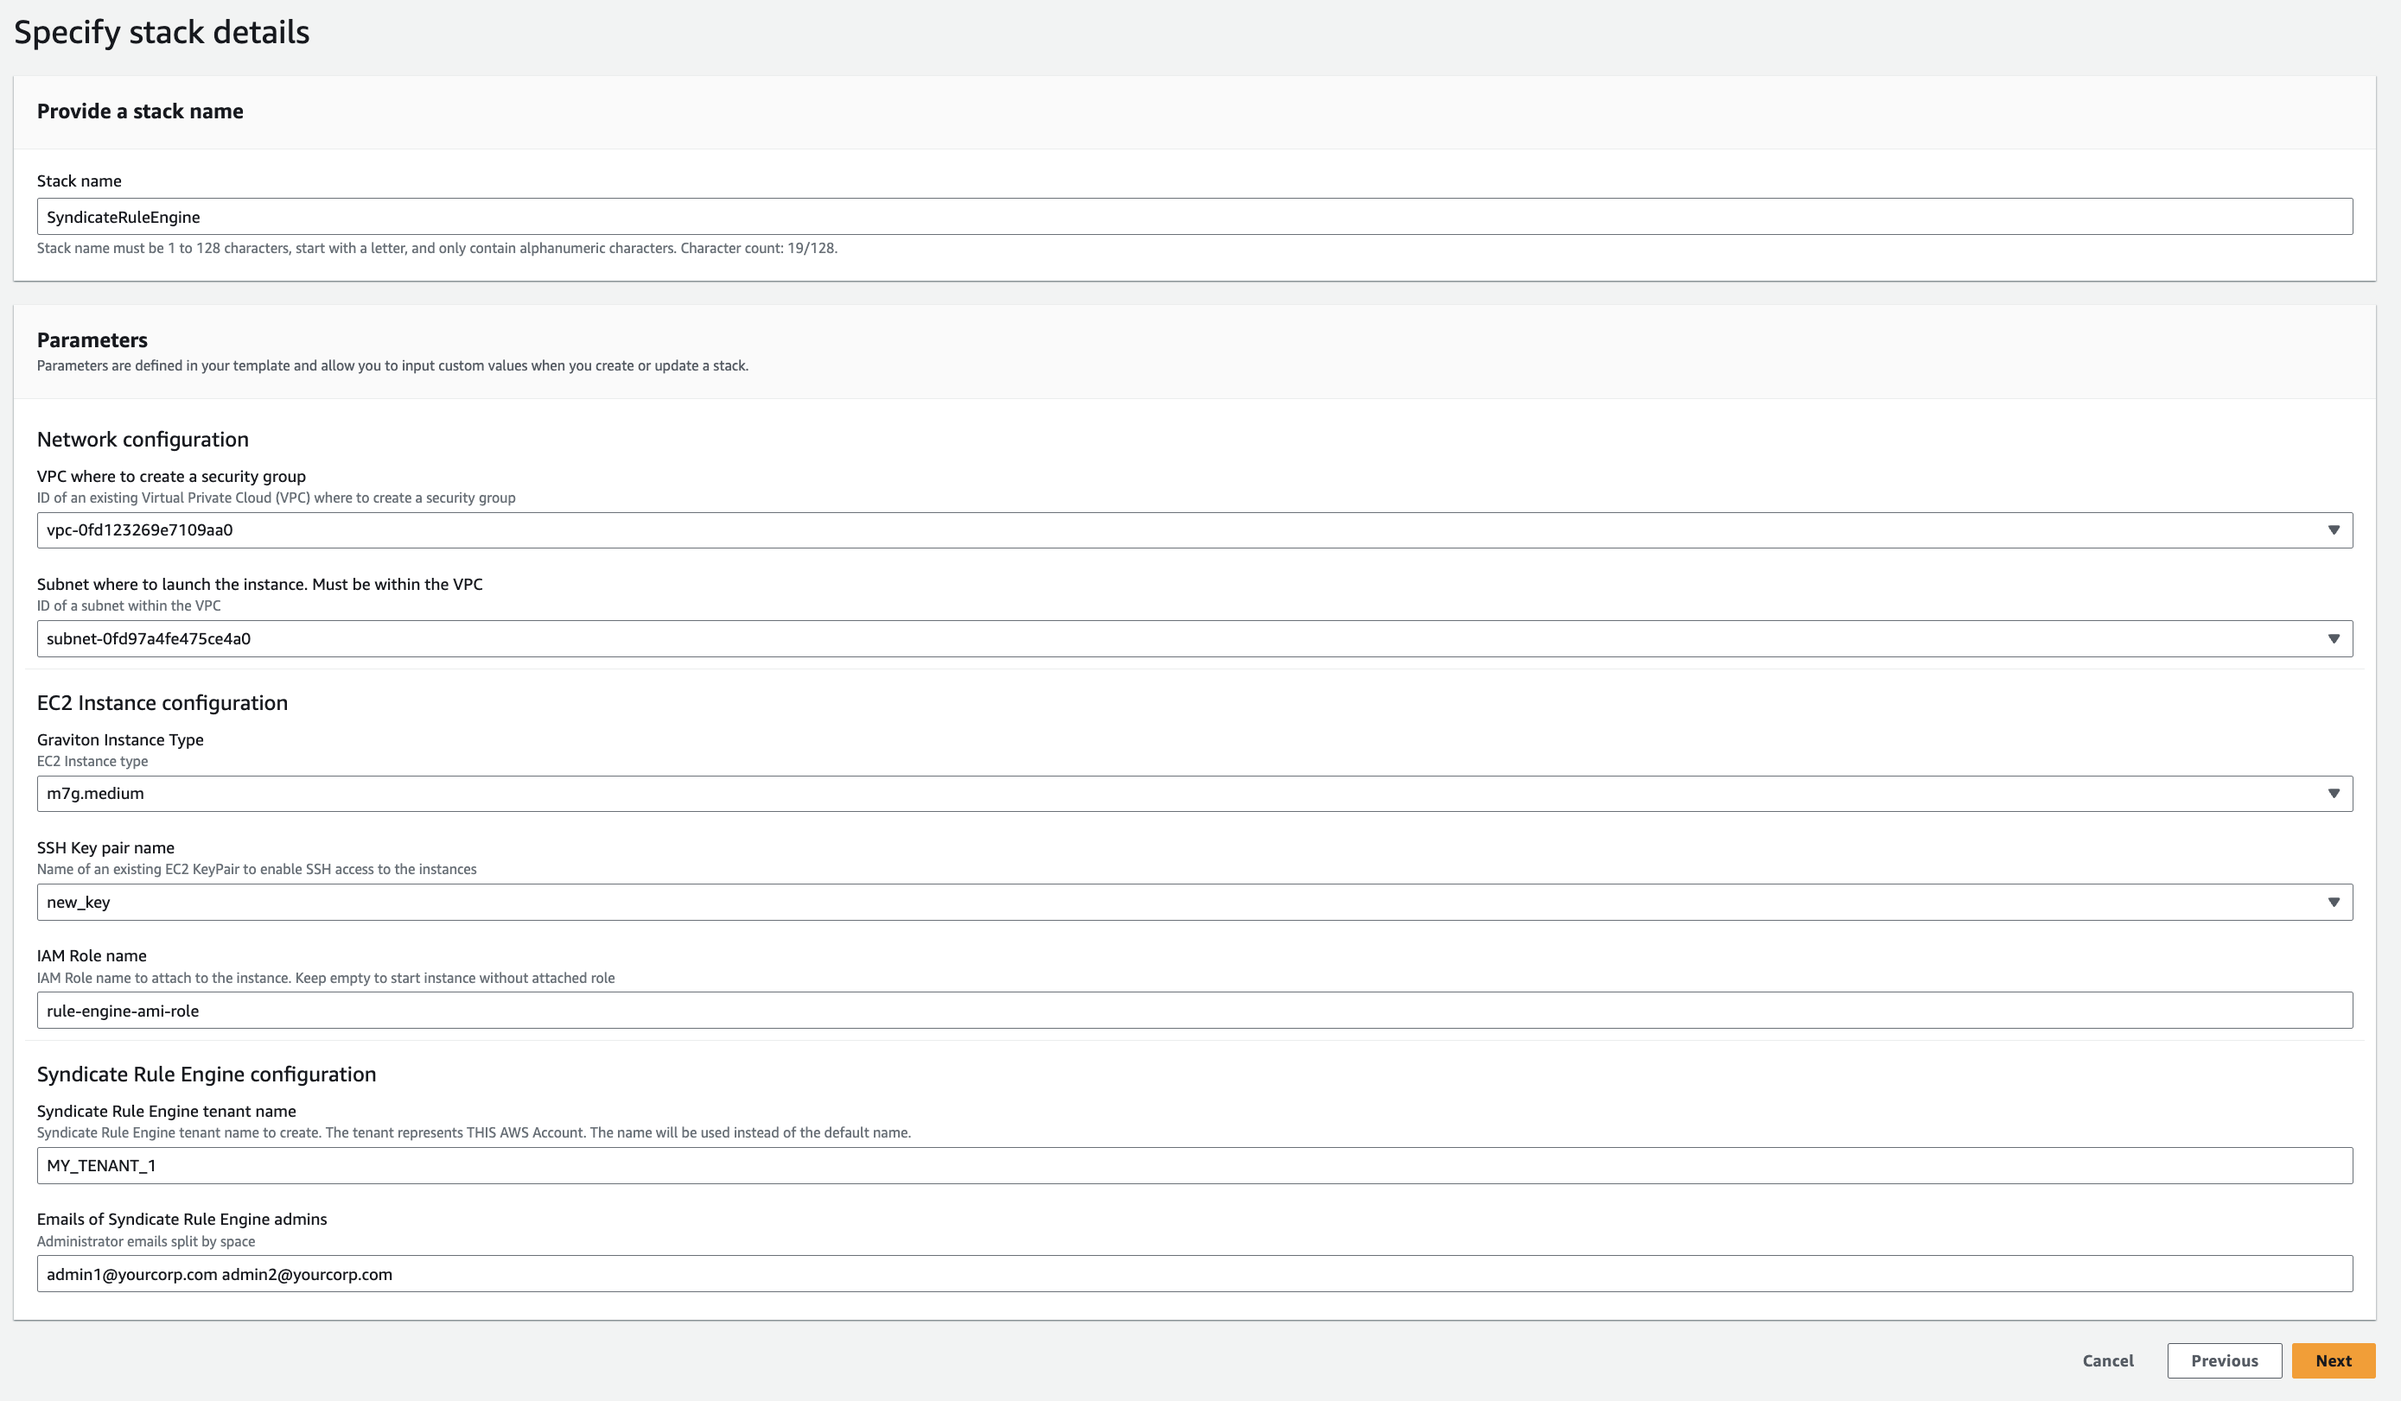
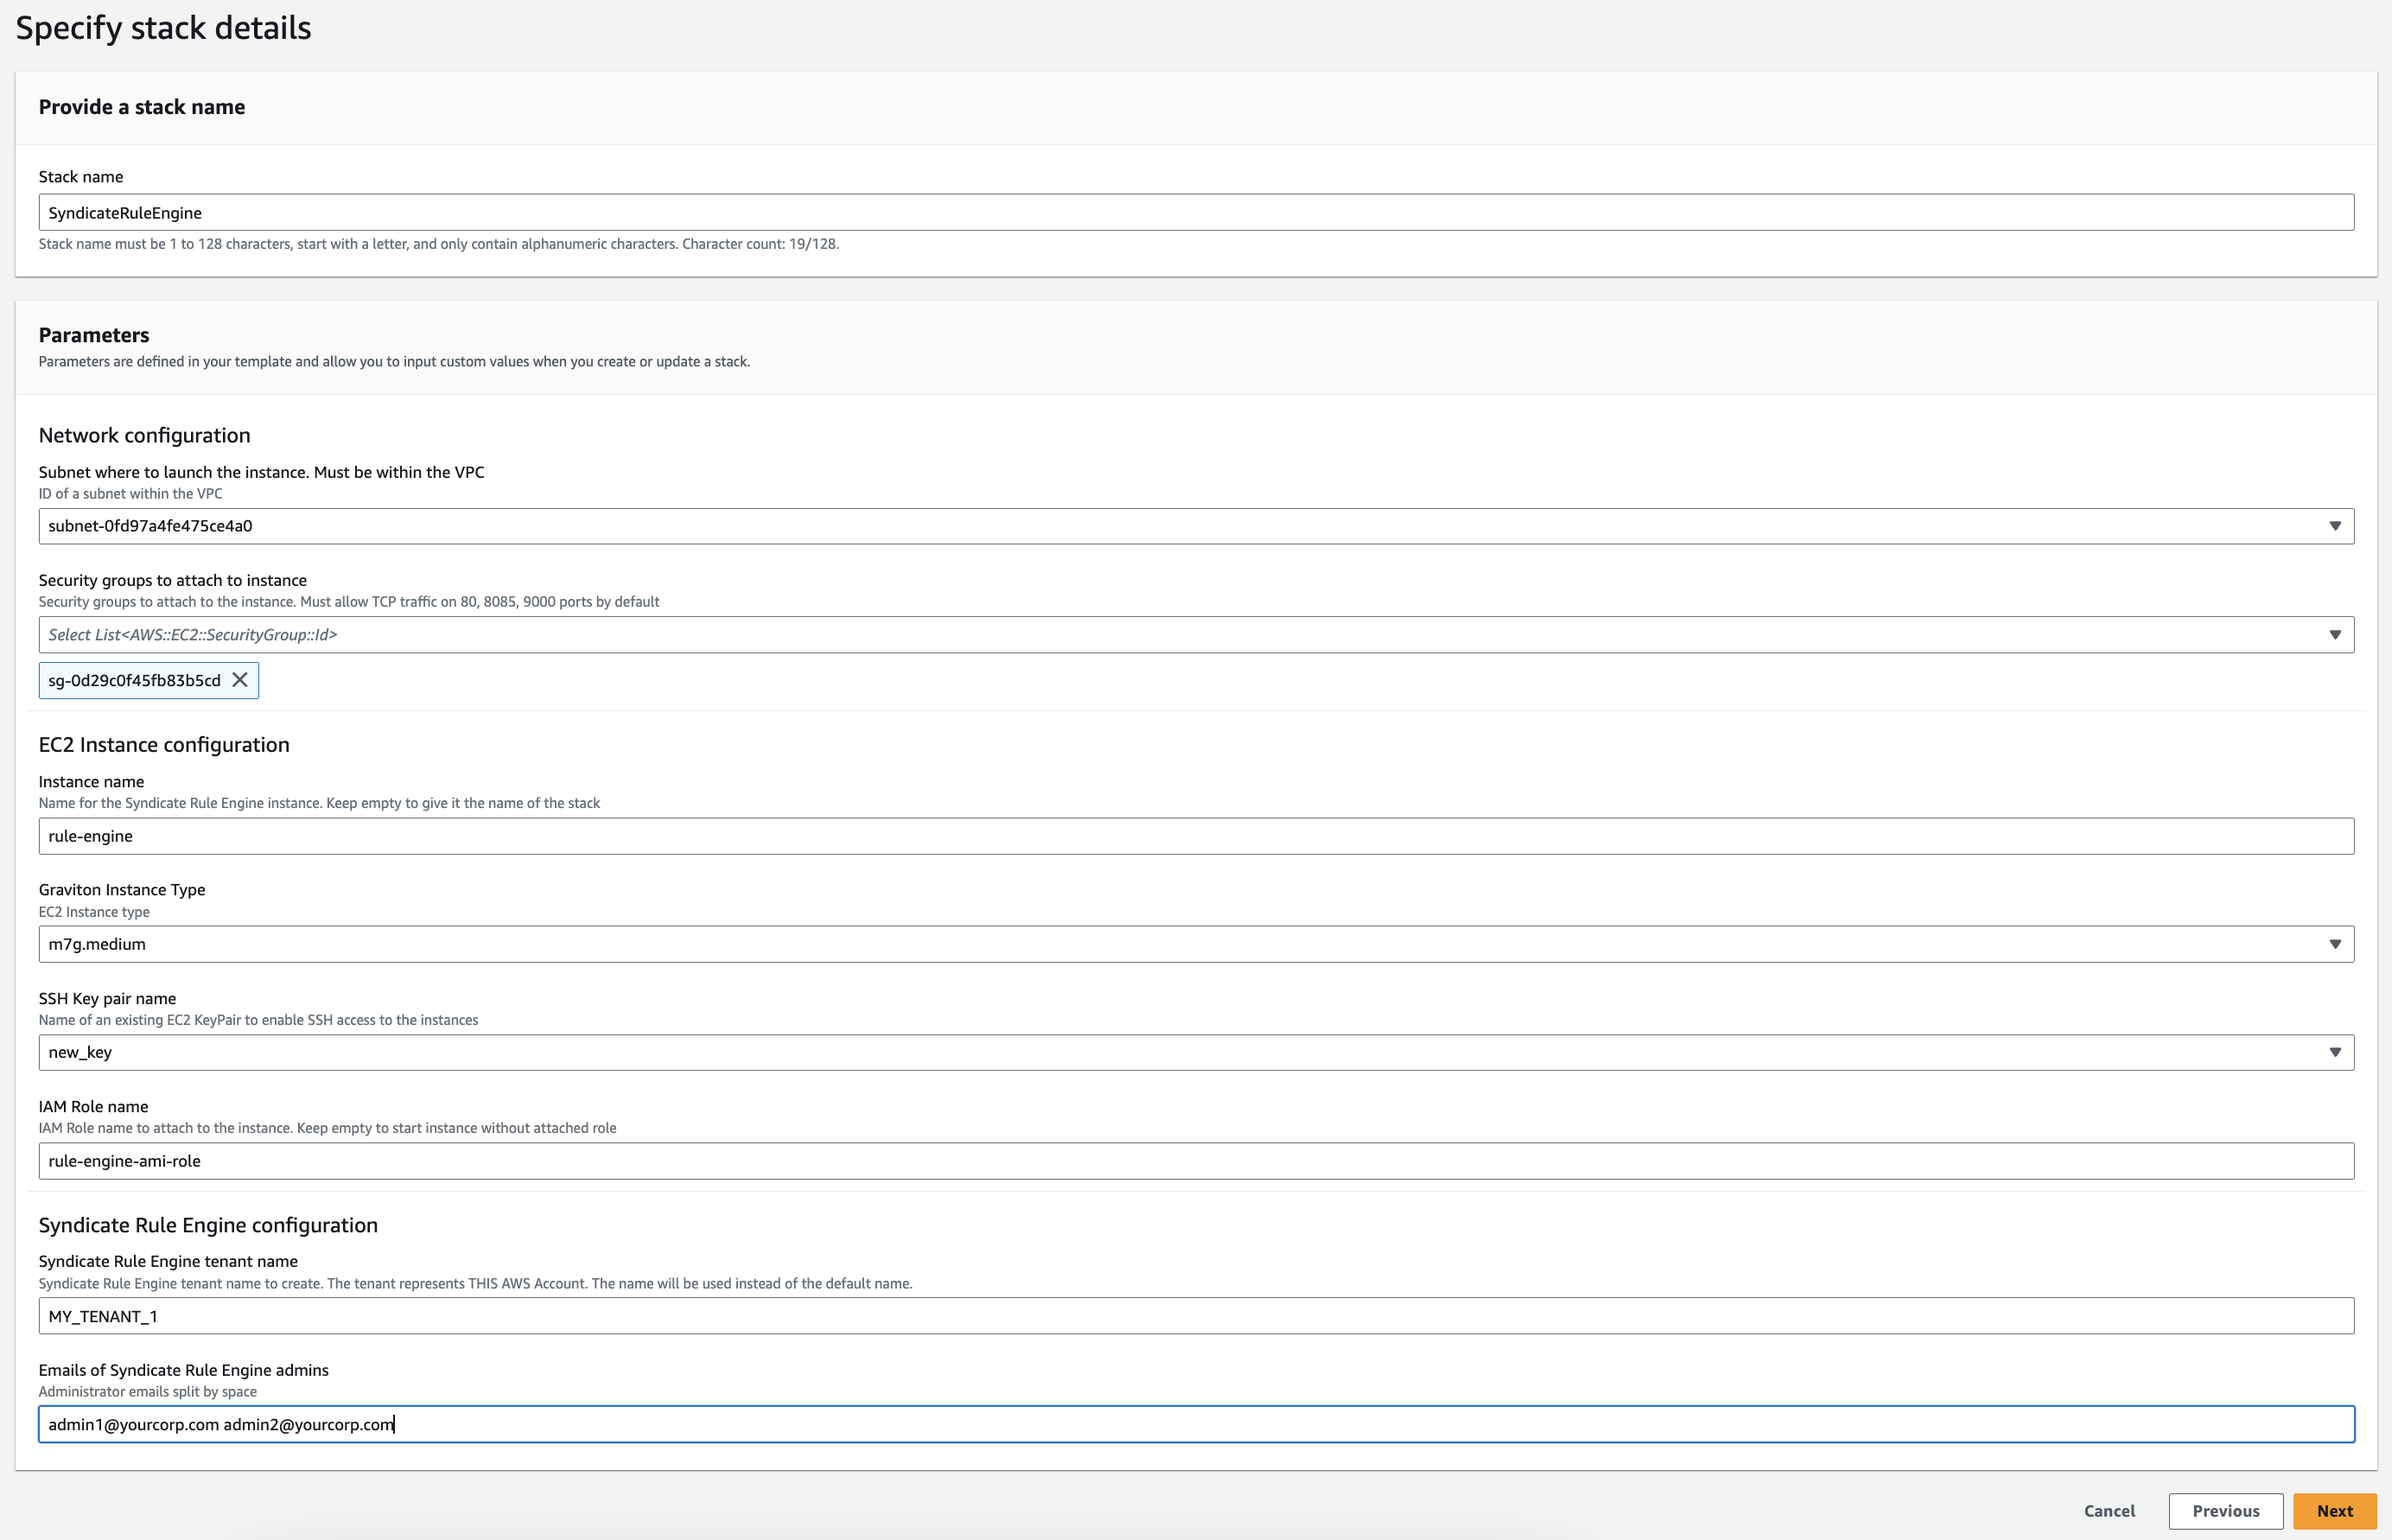
Update doc

diff --git a/deployment/aws-ami/docs/cf-docs.md b/deployment/aws-ami/docs/cf-docs.md
@@ -16,14 +16,15 @@ where You will need to specify stack parameters.
 ### Specify AWS Cloud Formation stack parameters
 
 You must configure such parameters:
-- **AWS VPC id:** choose a VPC where to create a security group for Syndicate Rule Engine. The security group will be attached
-  to the EC2 instance and will allow inbound traffic on ports: 80, 8085 and 9000 for Defect Dojo, Modular API 
-  and Minio API respectively. Consider that 22 port is closed, so You should open it if You want to have SSH access
 - **AWS Subnet id:** choose a subnet within the VPC You've chosen before. EC2 Instance will be created inside that subnet
+- **AWS Security groups ids:** specify security groups within Your VPC that will be attached to the instance. By default,
+  the instance is listening on ports: 80 (Defect dojo), 8085 (Modular API), 9000 (Minio API) so, make sure to open 
+  these ports if You want to use the services outside the instance
 - **EC2 Instance Type:** choose a type for the instance for the list. It must be at least `m7g.medium`
 - **SSH Key pair name:** choose key pair from listed. Will be used to access the instance
 
 Other optional parameters:
+- **Instance Name:** name for the instance. Stack name will be used as instance name if custom value is not specified
 - **IAM Role name:** name of AWS IAM role to attach to the instance. The role must be created beforehand and must allow EC2 Service to assume it.
   Keep the field empty if You do not want any role to be attached
 - **Syndicate Rule Engine tenant name:** name for the tenant that will be created during startup of Syndicate Rule Engine. The 
@@ -71,7 +72,6 @@ Review all the parameters and options and click `Submit`
 ### After CLoud Formation stack creation
 
 The stack will create such resources:
-- EC2 Security Group
 - EC2 Launch Template
 - EC2 Instance Profile
 - EC2 Instance
